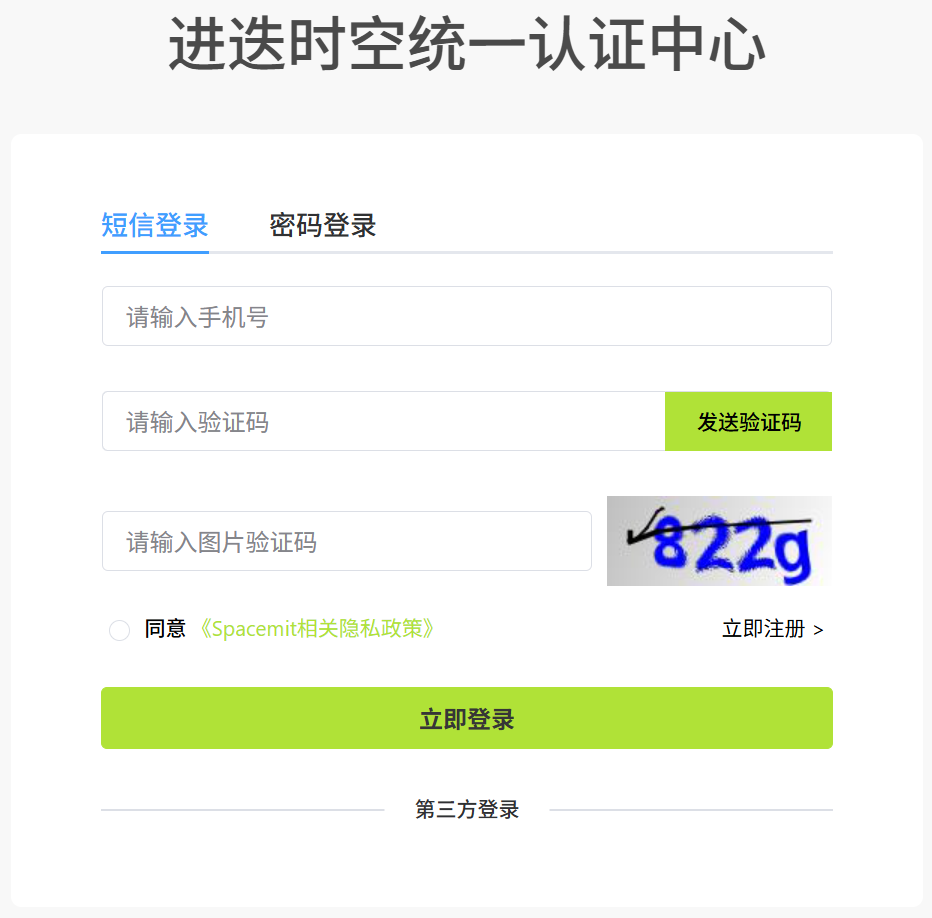
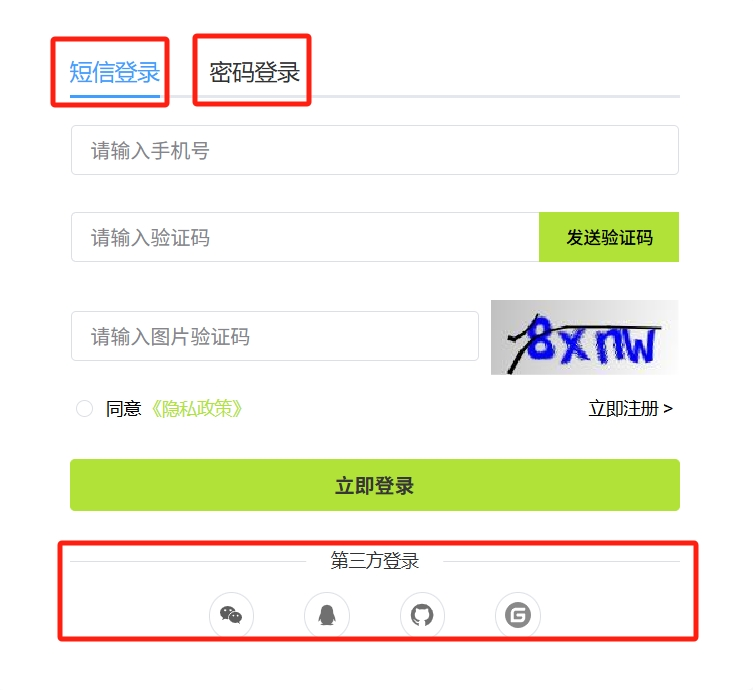
studio-updated2

diff --git a/zh/studio/quick_start.md b/zh/studio/quick_start.md
@@ -24,16 +24,21 @@ sidebar_position: 2
 - 邮箱注册
   <img src="./static/reg_email.png" alt="邮箱注册" width="400">
 
-注册完成后，点击 **立即登录** 进入登录页面。
+注册完成后，进入登录页面。
+> 若不注册，可使用第三方账号直接关联登录
 
 ### 登录方式
 
 您可以使用以下方式登录：
+<img src="./static/login.png" alt="登录界面" width="400">
 
 - 短信登录（手机验证码）
 - 密码登录
-
-  <img src="./static/login.png" alt="登录界面" width="400">
+- 第三方账号登录（无需单独注册）
+  - 微信账号
+  - QQ 账号
+  - GitHub 账号
+  - Gitee 账号
 
 ## 安装驱动
 
@@ -54,9 +59,9 @@ sidebar_position: 2
 ![首页 - 驱动已安装](./static/initial_00.png)
 
 > 注：各平台的驱动安装包也可以通过以下链接手动下载并安装：
-> 
+>
 > ![驱动下载链接](./static/driver.png)
-> 
+>
 > - **Windows 版本**：[下载 Windows 驱动](https://www.spacemit.com/community/resources-download/Tools/SpacemiT%20Studio/Windows)
 > - **Linux 版本**：[下载 Linux 驱动](https://www.spacemit.com/community/resources-download/Tools/SpacemiT%20Studio/Linux)
 > - **macOS 版本**：[下载 macOS 驱动](https://www.spacemit.com/community/resources-download/Tools/SpacemiT%20Studio/Darwin)

diff --git a/en/studio/quick_start.md b/en/studio/quick_start.md
@@ -8,7 +8,9 @@ sidebar_position: 2
 
 ## 访问 SpacemiT Studio
 
-在浏览器中打开 **[SpacemiT Studio](https://studio.spacemit.com/)** 即可开始使用。
+在浏览器中打开 **[SpacemiT Studio](https://studio.spacemit.com/)**。
+
+Note: You must sign in to access the Studio interface. If you are not signed in, you will be redirected to the login page — sign in with an existing account or register via phone/email before using the Studio.
 
 ## 安装驱动
 

diff --git a/zh/studio/user_guide/dev_tools/flash.md b/zh/studio/user_guide/dev_tools/flash.md
@@ -8,7 +8,7 @@ sidebar_position: 1
 
 通过 USB 刷机模式将系统镜像直接写入设备的内置存储，适用于单台设备的系统安装或更新。
 
-### 前置条件
+### 单机烧录 - 前置条件
 
 - 已安装对应平台的 SpacemiT Studio 驱动（参考[快速入门](../../quick_start.md)）
 - 设备已通过 USB 线连接至电脑
@@ -25,7 +25,7 @@ sidebar_position: 1
 | K3 | CoM260 Kit | [用户使用指南](https://www.spacemit.com/community/document/info?lang=zh&nodepath=hardware/eco/k3_com260/com260_user_guide.md) |
 | K3 | Pico-ITX | [用户使用指南](https://www.spacemit.com/community/document/info?lang=zh&nodepath=hardware/eco/k3_pico/root_overview.md) |
 
-### 操作步骤
+### 单机烧录 - 操作步骤
 
 1. 进入 **开发工具 → 单机烧录**
 

diff --git a/zh/studio/overview.md b/zh/studio/overview.md
@@ -4,7 +4,7 @@ sidebar_position: 1
 
 # 产品概述
 
-SpacemiT Studio 是由进迭时空为 RISC-V 平台打造的一站式开发工作台，集成镜像管理、系统烧录、设备管理、终端调试、云端编译、AI 开发和应用部署等能力，支持从系统安装到应用上线的完整开发流程。
+**[SpacemiT Studio](https://studio.spacemit.com/)** 是由进迭时空为 RISC-V 平台打造的一站式开发工作台，集成镜像管理、系统烧录、设备管理、终端调试、云端编译、AI 开发和应用部署等能力，支持从系统安装到应用上线的完整开发流程。
 
 它为 RISC-V 开发提供统一入口，帮助开发者在同一界面中完成设备准备、软件开发和应用部署。
 